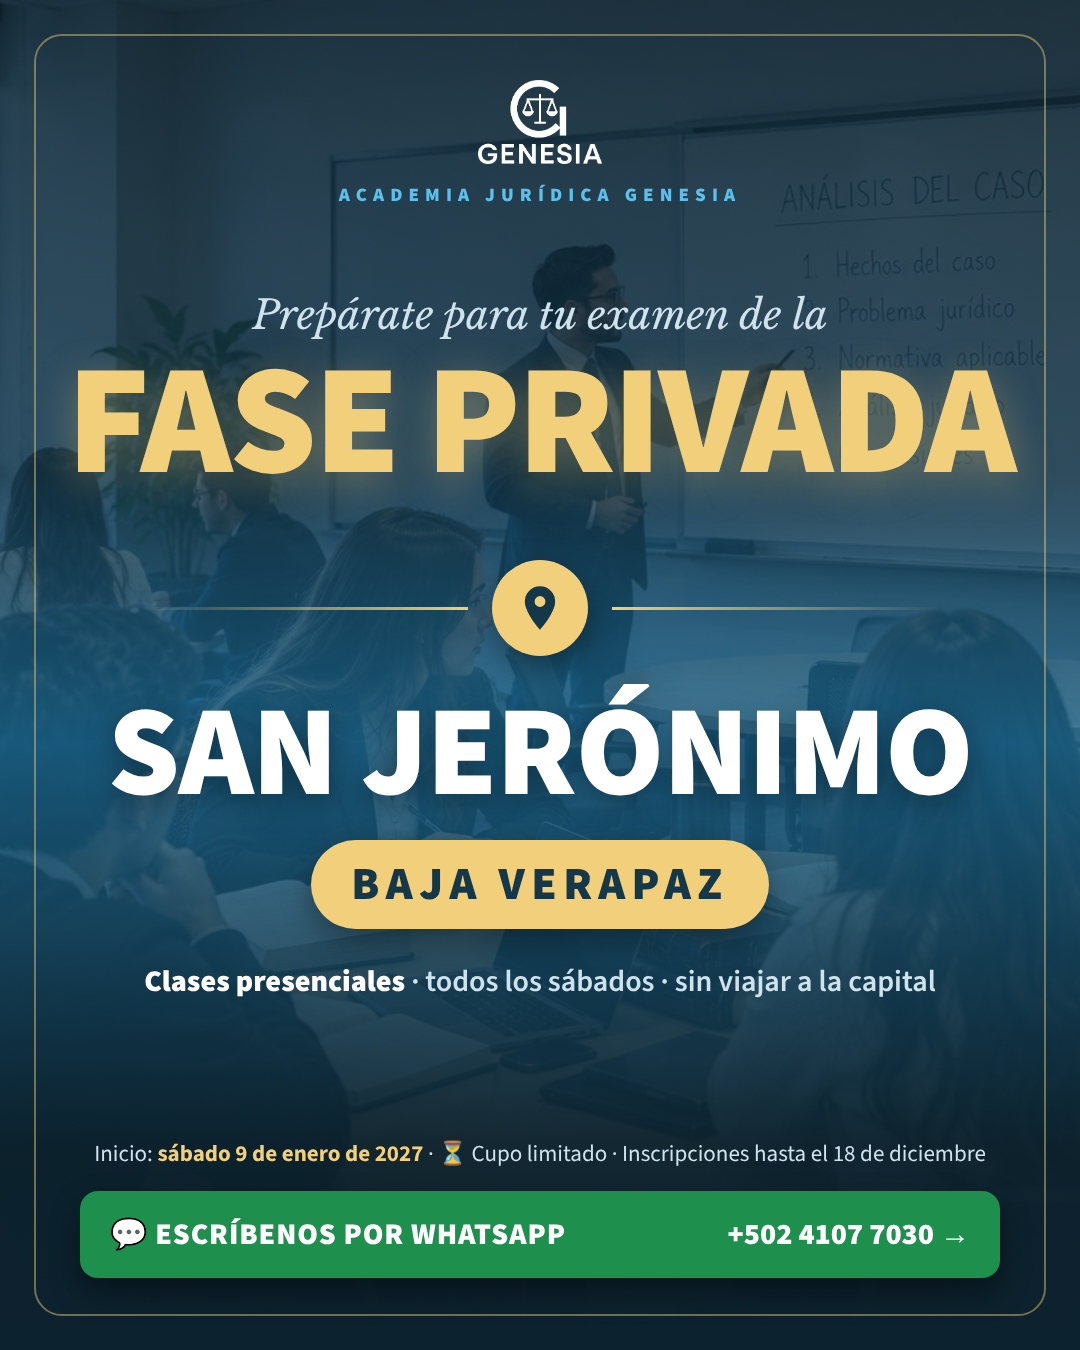
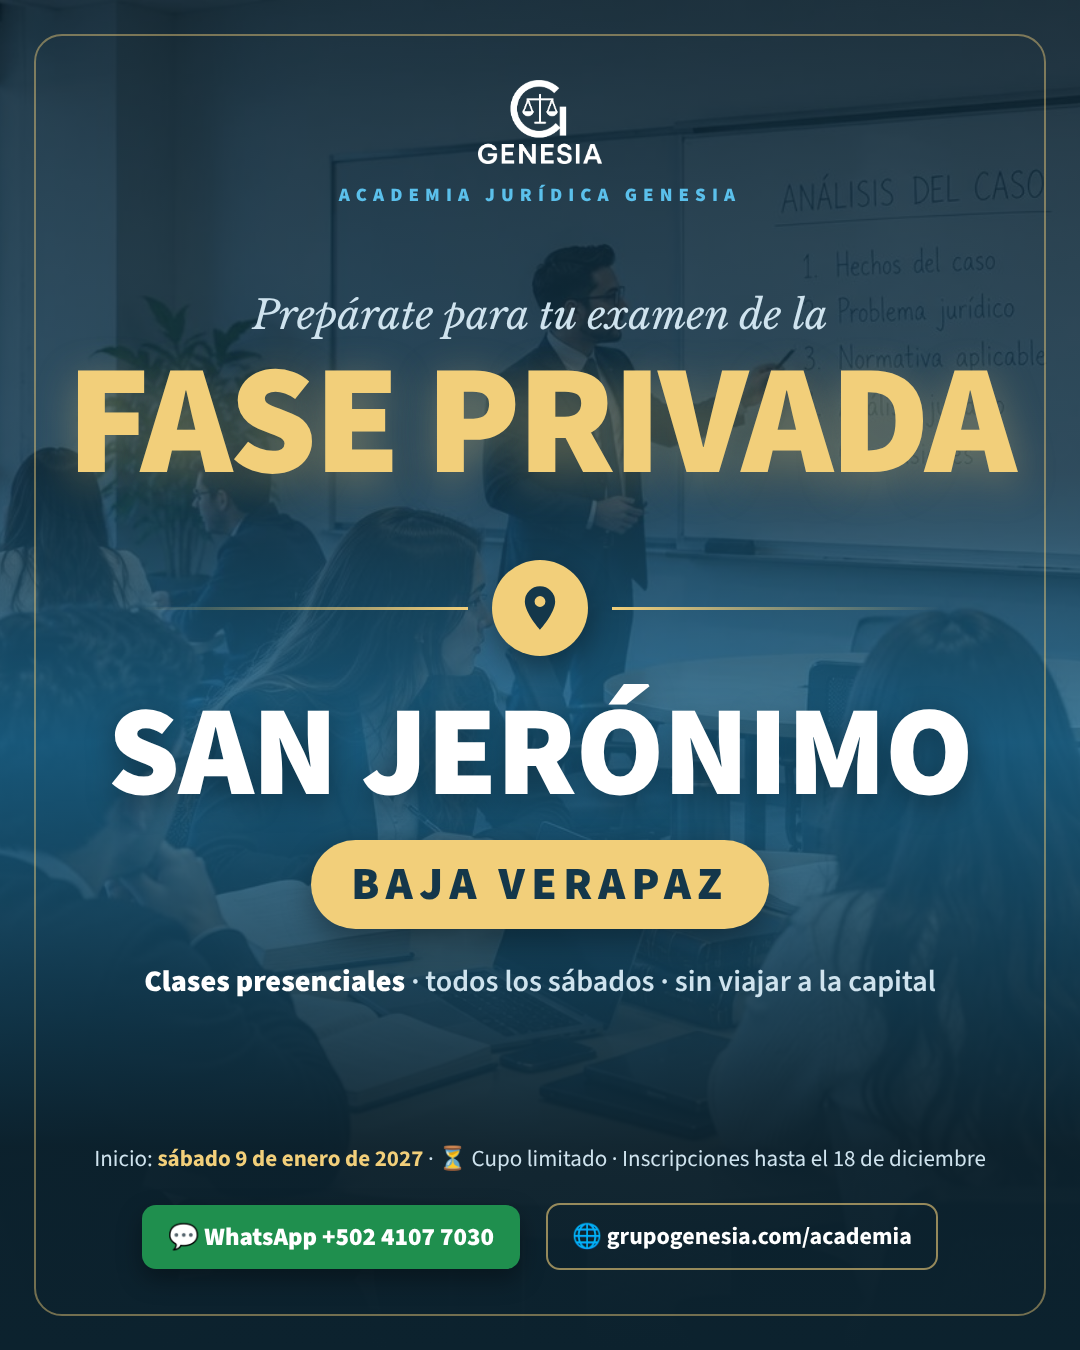
Póster: botón de WhatsApp más pequeño y página web
Claude-Session: https://claude.ai/code/session_019P4c4Lg5d5Vsrqkia8Jftp

Changed region(s): [[0.0611, 0.84, 0.9472, 0.9644]]

diff --git a/documentos/publicidad/anuncio-baja-verapaz/anuncio-poster.html b/documentos/publicidad/anuncio-baja-verapaz/anuncio-poster.html
@@ -27,6 +27,10 @@ p{margin:0}
 .info b{color:var(--oroc)}
 .cta{position:absolute;left:80px;right:80px;bottom:72px;display:flex;justify-content:space-between;align-items:center;padding:22px 30px;border-radius:18px;background:#1f8f4e;font-weight:900;font-size:30px;box-shadow:0 14px 30px rgba(0,0,0,.4)}
 .cta i{font-style:normal;text-transform:uppercase;letter-spacing:.03em}
+.info{bottom:175px}
+.cta2{position:absolute;left:0;right:0;bottom:80px;display:flex;justify-content:center;align-items:center;gap:26px}
+.cta2 .wa{padding:14px 26px;border-radius:14px;background:#1f8f4e;font-weight:900;font-size:25px;box-shadow:0 10px 24px rgba(0,0,0,.35)}
+.cta2 .web{padding:14px 24px;border-radius:14px;border:2px solid rgba(242,207,122,.6);font-weight:700;font-size:24px;color:#fff}
 </style></head><body>
 <div class="fondo"></div><div class="marco"></div>
 <div class="logo"><img src="logo.png" alt=""><p>Academia Jurídica Genesia</p></div>
@@ -37,5 +41,5 @@ p{margin:0}
 <p class="bv"><span>Baja Verapaz</span></p>
 <p class="det"><b>Clases presenciales</b> · todos los sábados · sin viajar a la capital</p>
 <p class="info">Inicio: <b>sábado 9 de enero de 2027</b> · ⏳ Cupo limitado · Inscripciones hasta el 18 de diciembre</p>
-<div class="cta"><i>💬 Escríbenos por WhatsApp</i><span>+502 4107 7030 →</span></div>
+<div class="cta2"><span class="wa">💬 WhatsApp +502 4107 7030</span><span class="web">🌐 grupogenesia.com/academia</span></div>
 </body></html>
